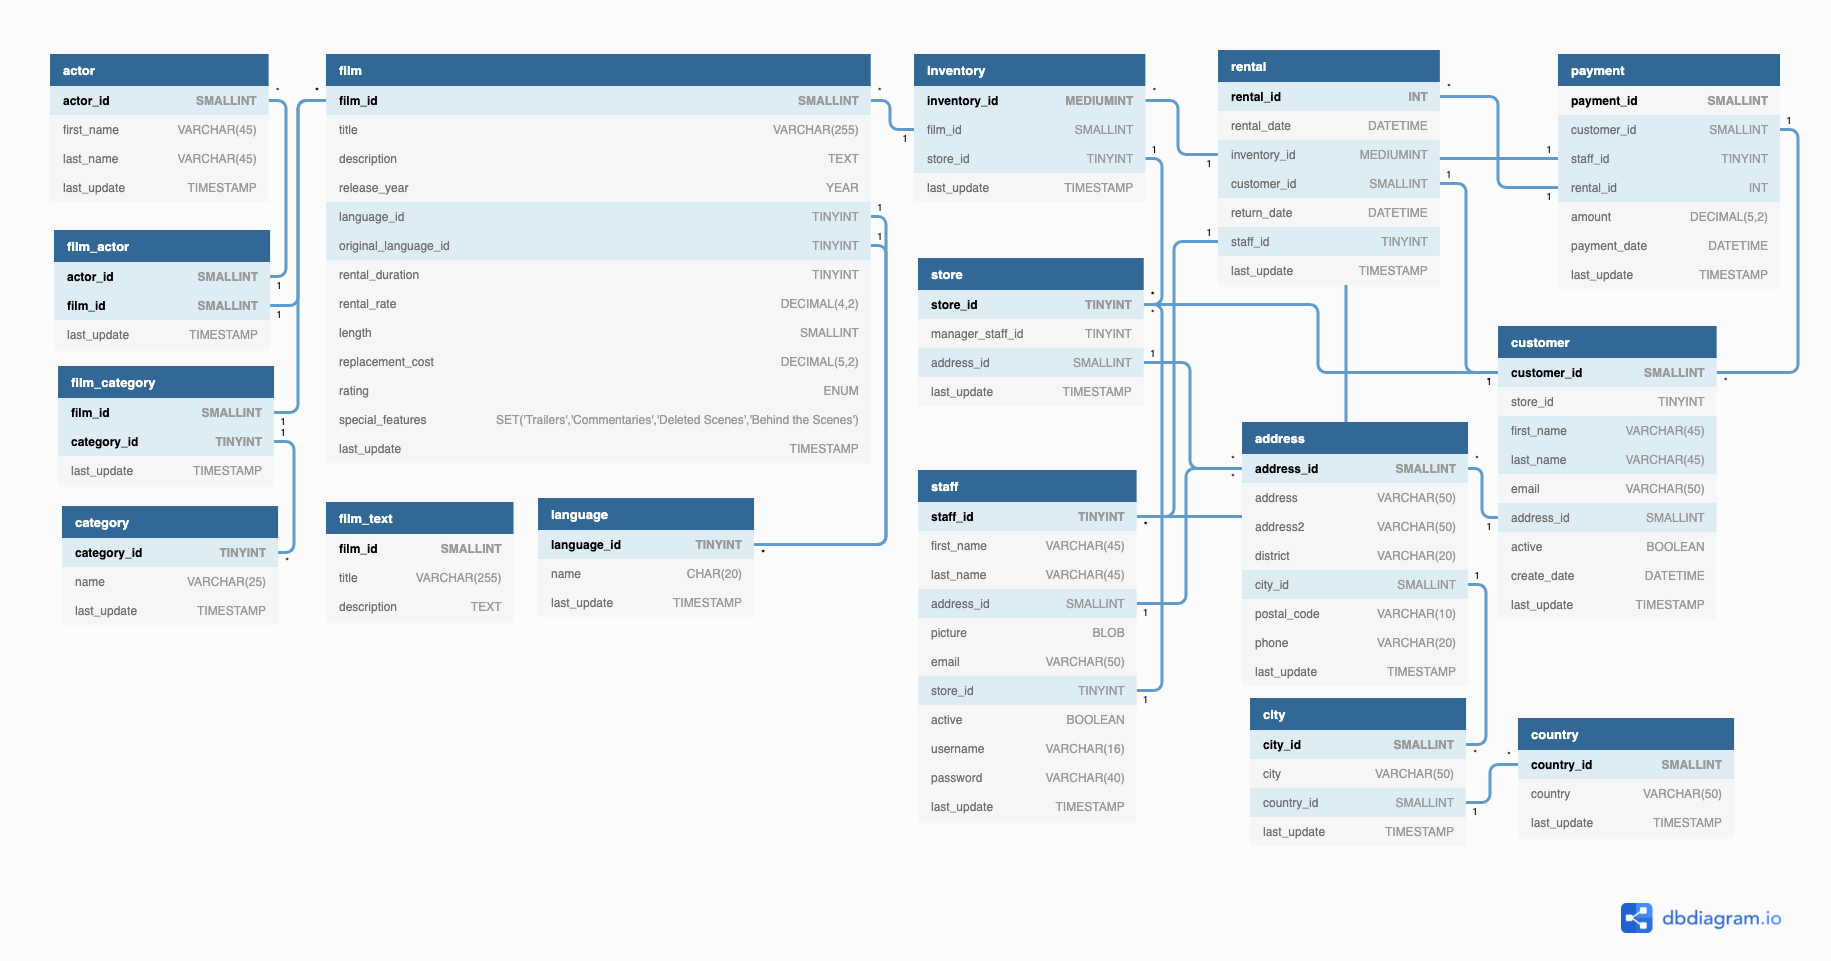
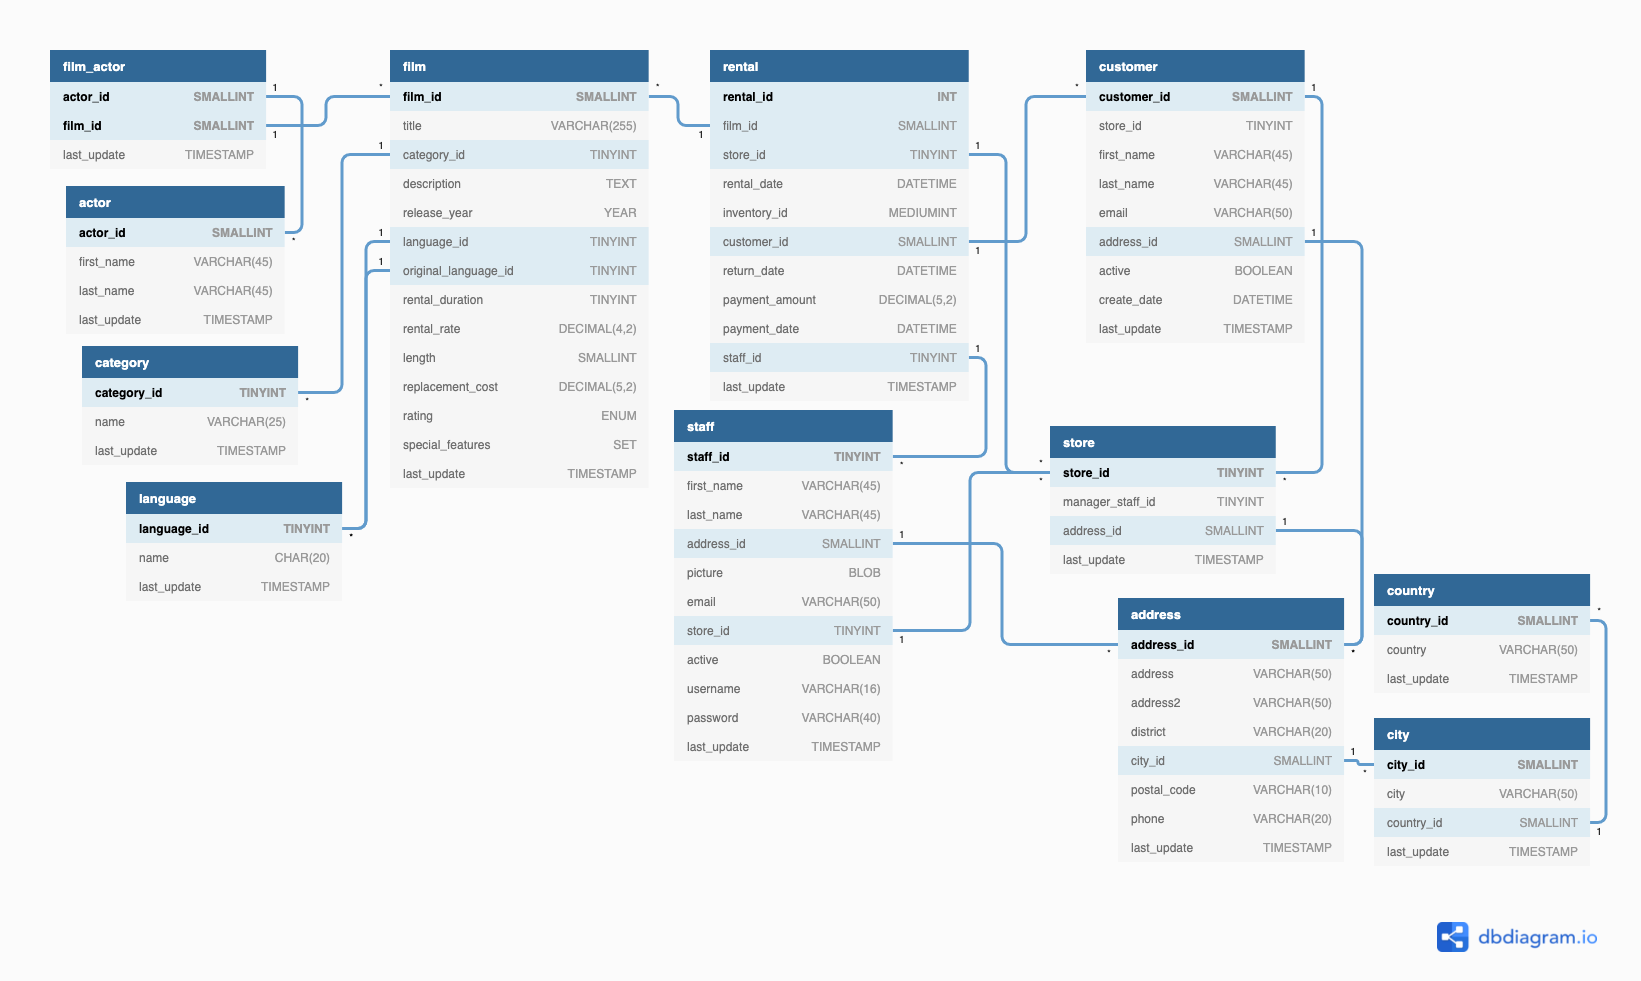
Modify lab-database-normalization

diff --git a/README.md b/README.md
@@ -14,17 +14,12 @@ First, I structured the database into two main parts as following
     1. FILM --'film' table and its related tables (left side of the diagram)
     2. RENTAL --'rental' table and its related tables (right side of the diagram)
 
-Then I connected the tables by placing the tables containing foreign keys around the main ones. (ex. film -> film_actor -> actor)
+Then deleted some tables which I thought not necessary, those are 'inventory' 'film_category'. I connected the tables by placing the tables containing foreign keys around the main ones. (ex. film -> film_actor -> actor)
+
+The primary keys are shown in the diagram.
 
 ### Table and column names
 
 To avoid copy & pasting the table and column names, I imported the data from 'sakila-schema.sql'. However, it took some time to clean the data (for example deleting default condition). I could not find any better way to automate the process. 
-
-### Primary keys and foreign keys
-
-To make relation between primary keys and foreign keys, I used the code below. 
-
-*Ref { actor.actor_id > film_actor.actor_id}*
-
-Finally it was not easy to show 
+ 
 
